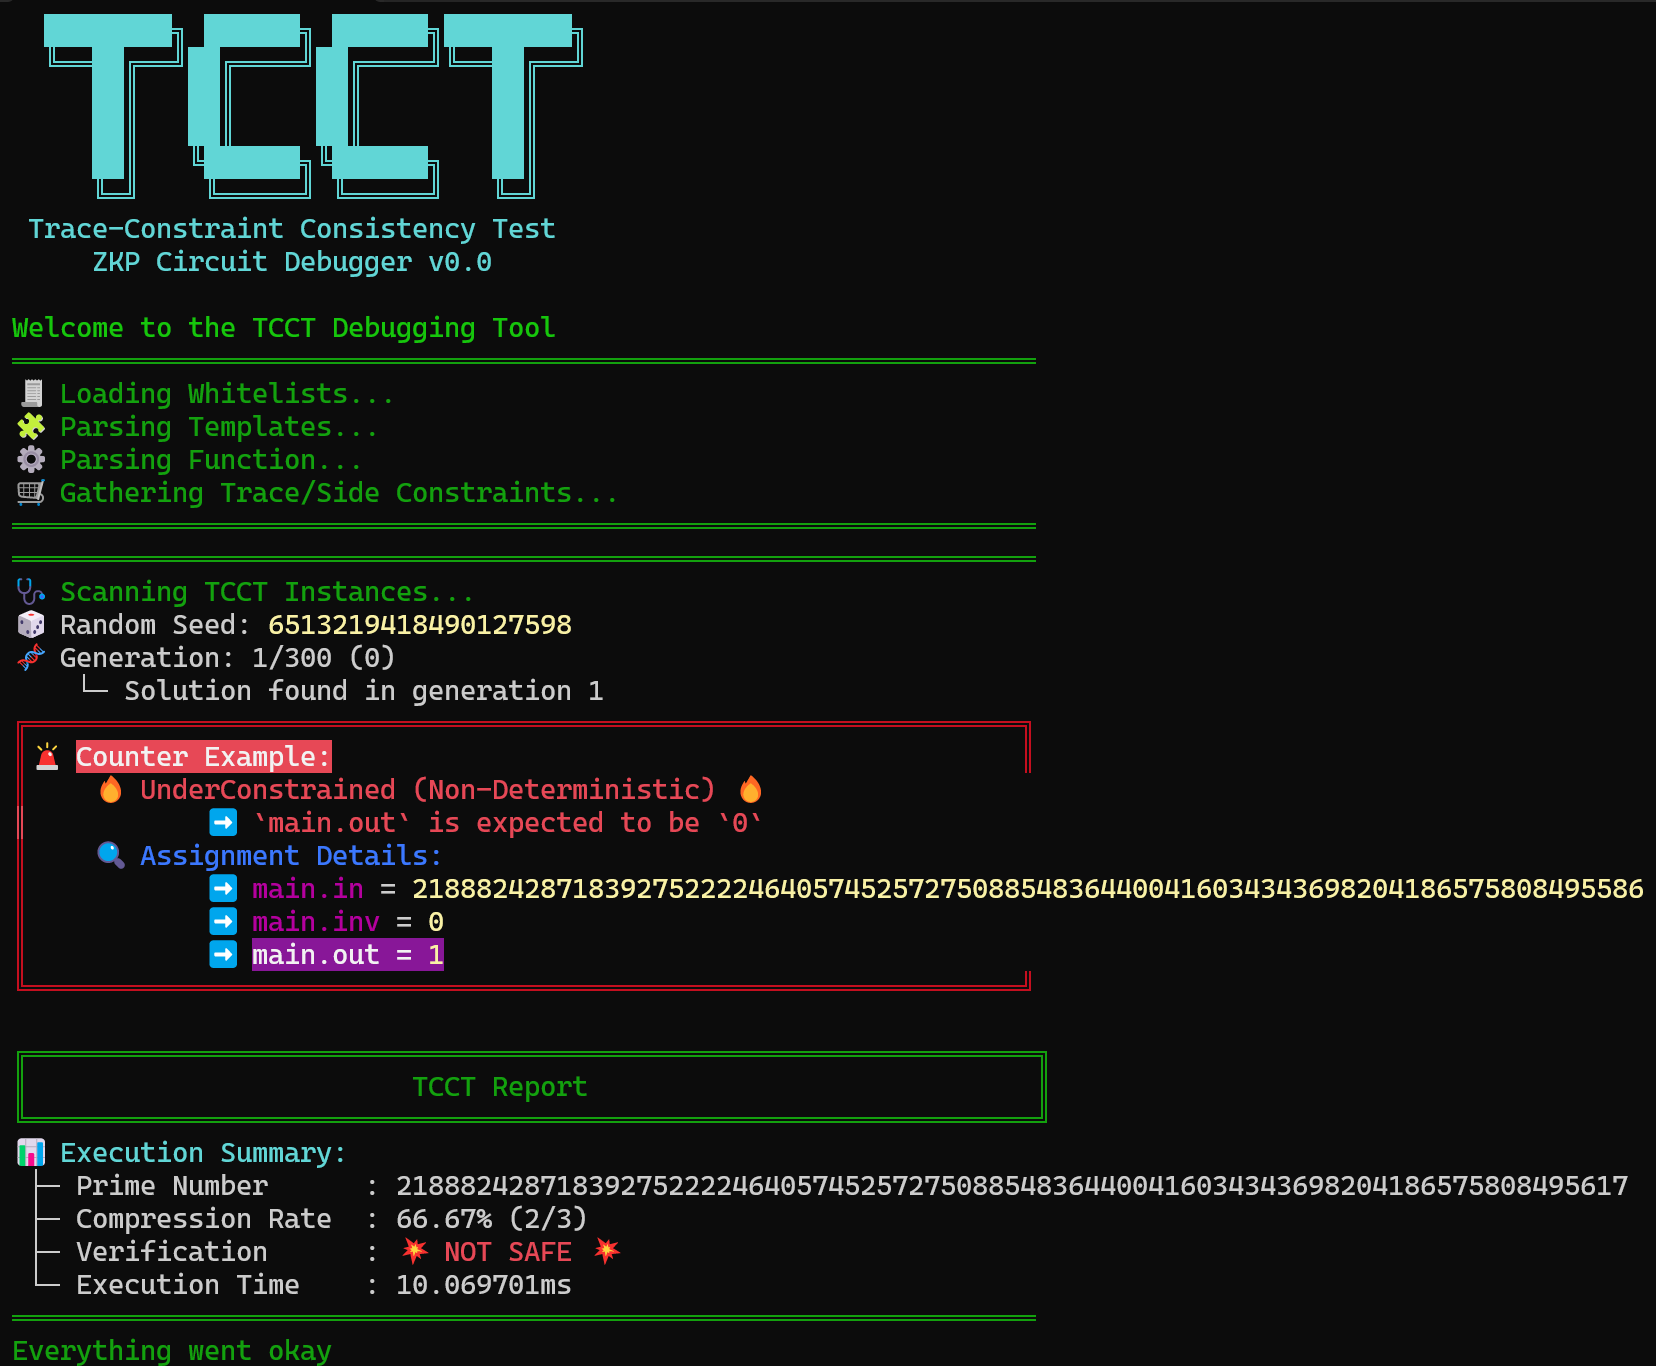
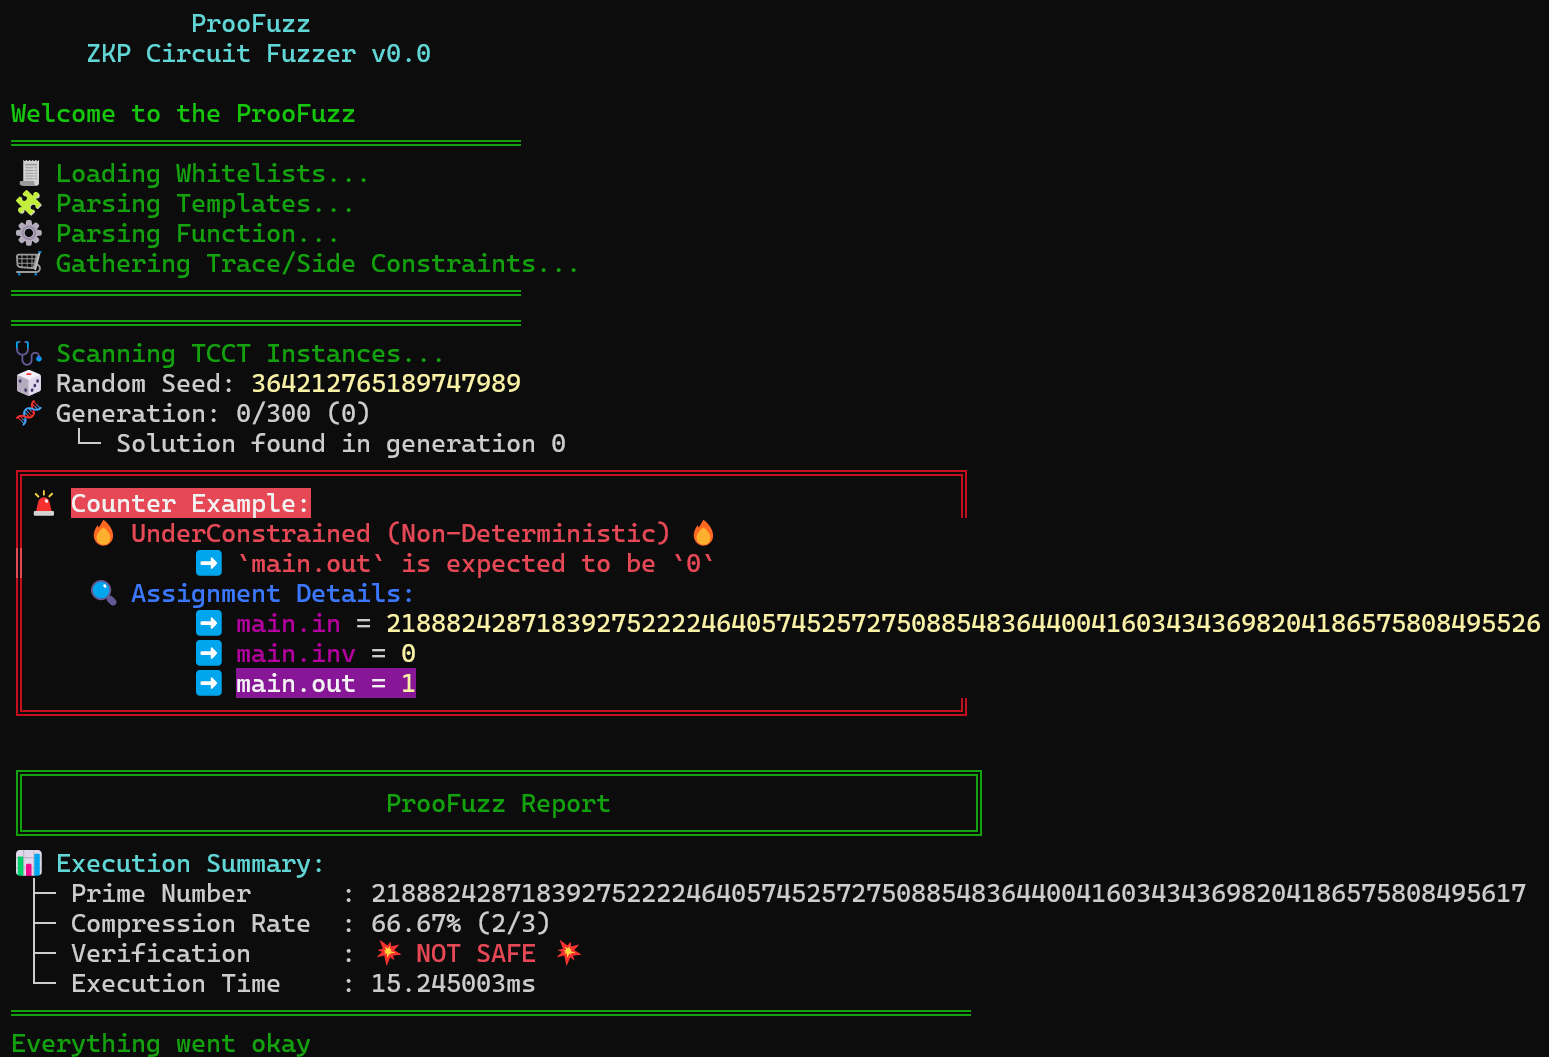
update

Changed region(s): [[0.0, 0.0, 0.9916, 0.9991], [0.0, 0.5932, 0.031, 0.6244]]

diff --git a/README.md b/README.md
@@ -15,7 +15,7 @@ cargo build --release
 ## Basic Usage
 
 ```
-ZKP Circuit Debugger
+ZKP Circuit Fuzzer
 
 USAGE:
     proofuzz [FLAGS] [OPTIONS] [--] [input]
